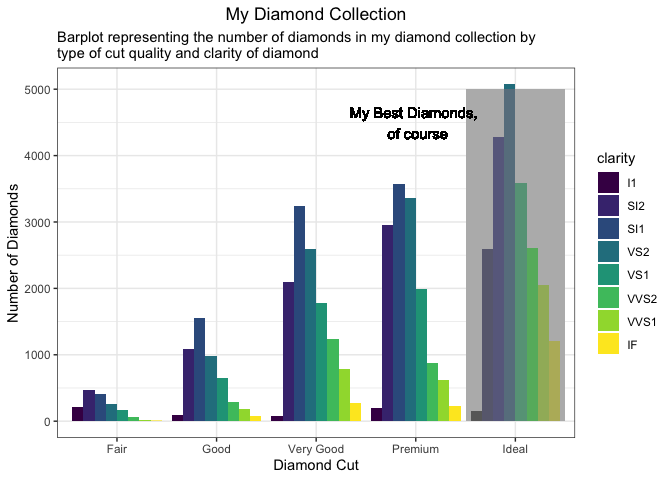
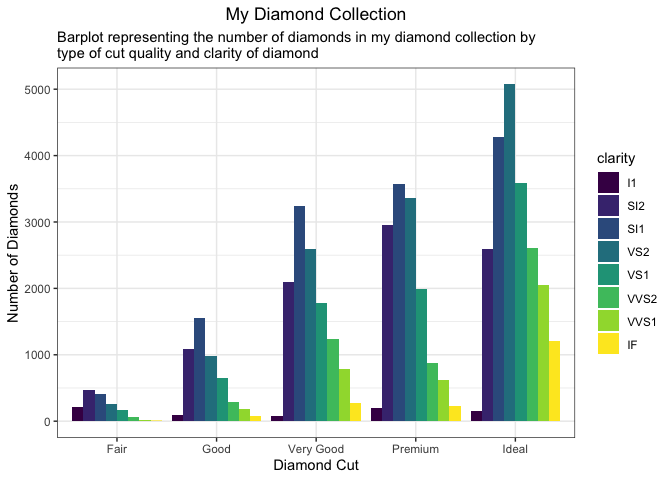
added box and text on graph 1, proper x-axis scale on graph 3, and color palette on graph 4. I was unable to correct the order of the facted graph in #2.

Changed region(s): [[0.5, 0.1875, 0.8438, 0.875]]

diff --git a/HW02_B_Mimic_starter.md b/HW02_B_Mimic_starter.md
@@ -30,15 +30,13 @@ is for. :smile:
 ### Graph 1
 
 ``` r
-ggplot(data = diamonds, mapping = aes(x = cut, fill = clarity)) + 
-  geom_bar(position = "dodge") +
-  geom_rect(aes(xmin= 4.5, ymin= 0, xmax= 5.5, ymax= 5000), alpha = 0.01, fill = "gray85") +
-  geom_text(x = 4, y = 4500, label = "My Best Diamonds, \n of course") +
+ggplot(data = diamonds) + 
+  geom_bar(mapping = aes(x = cut, fill = clarity), position = "dodge") +
+  theme(plot.title = element_text(hjust = 0.5)) +
   labs(x = "Diamond Cut", 
        y = "Number of Diamonds", 
        title = "My Diamond Collection", 
-       subtitle = "Barplot representing the number of diamonds in my diamond collection by \ntype of cut quality and clarity of diamond") +
-  theme(plot.title = element_text(hjust = 0.5))
+       subtitle = "Barplot representing the number of diamonds in my diamond collection by \ntype of cut quality and clarity of diamond") 
 ```
 
 ![](HW02_B_Mimic_starter_files/figure-gfm/unnamed-chunk-1-1.png)<!-- -->
@@ -46,10 +44,27 @@ ggplot(data = diamonds, mapping = aes(x = cut, fill = clarity)) +
 ### Graph 2
 
 ``` r
-data("iris")
+ggplot(data = iris, mapping = aes(x = Sepal.Length, y = Petal.Length)) + 
+  geom_point(mapping = aes(color = Species, shape = Species)) +
+  facet_wrap(~Species, scales = "free_y") +
+  geom_smooth(method = "lm", se = FALSE, color = "black")
 ```
 
-Using the iris dataset, make this graph:
+![](HW02_B_Mimic_starter_files/figure-gfm/unnamed-chunk-2-1.png)<!-- -->
+
+``` r
+  labs(x = "Sepal.Length", 
+       y = "Petal.Length") 
+```
+
+    ## $x
+    ## [1] "Sepal.Length"
+    ## 
+    ## $y
+    ## [1] "Petal.Length"
+    ## 
+    ## attr(,"class")
+    ## [1] "labels"
 
 ### Graph 3
 
@@ -68,7 +83,10 @@ require("ggrepel") #useful for making text annotations better, hint hint
 set.seed(42)
 ```
 
-Now using the mpg dataset and the corvette dataset, make this graph:
+Now using the mpg dataset and the corvette dataset, make this
+graph:
+
+![](HW02_B_Mimic_starter_files/figure-gfm/graoh%203%20code-1.png)<!-- -->
 
 There is a trick to getting the model and year to print off together.
 `paste()` is a useful function for this, also pasting together parts of
@@ -89,4 +107,7 @@ display.brewer.all(colorblindFriendly = T) #take a look at the colorblindfriendl
 The above graph lets you see some colobrlind friendly palettes. For the
 graph below, I used Set2.
 
-Now using the above mpg dataset, make this graph
+Now using the above mpg dataset, make this
+graph
+
+![](HW02_B_Mimic_starter_files/figure-gfm/graph%204%20code-1.png)<!-- -->
